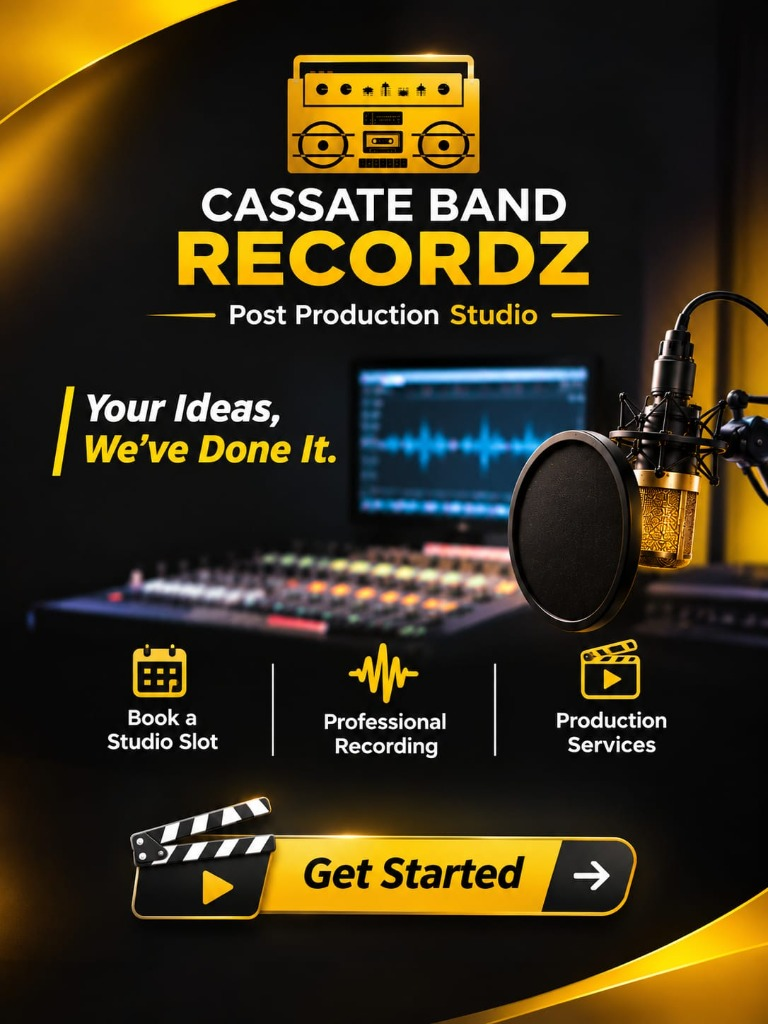
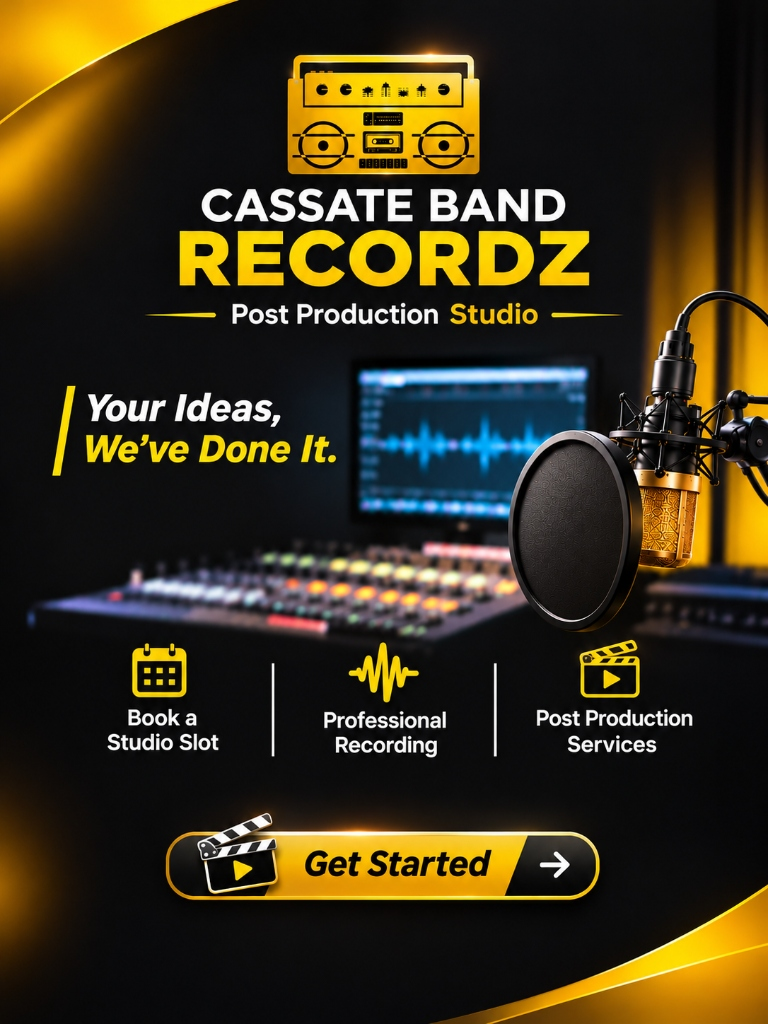
feat: interactive clip box slider on get started screen with smooth swipe to unlock

diff --git a/app/index.tsx b/app/index.tsx
@@ -13,9 +13,12 @@ import {
 } from 'react-native';
 import { useRouter } from 'expo-router';
 import { StatusBar } from 'expo-status-bar';
+import { Ionicons } from '@expo/vector-icons';
+import { useSafeAreaInsets } from 'react-native-safe-area-context';
 
 export default function InitialEntranceScreen() {
   const router = useRouter();
+  const insets = useSafeAreaInsets();
   const { width, height } = useWindowDimensions();
 
   // Phase 1: 'loading', Phase 2: 'poster'
@@ -30,8 +33,16 @@ export default function InitialEntranceScreen() {
   const posterFadeAnim = useRef(new Animated.Value(0)).current;
   const posterScaleAnim = useRef(new Animated.Value(1.03)).current;
 
-  // Subtle tap feedback animation for the poster CTA
-  const tapScaleAnim = useRef(new Animated.Value(1)).current;
+  // Slider animation values
+  const swipePan = useRef(new Animated.Value(0)).current;
+  const [trackWidth, setTrackWidth] = useState<number>(Math.min(350, width - 40));
+  const isEnteringRef = useRef(false);
+
+  // Chevron pulse animation inside slider
+  const chevronPulseAnim = useRef(new Animated.Value(0.4)).current;
+
+  const thumbWidth = 62;
+  const maxDrag = Math.max(80, trackWidth - thumbWidth - 8);
 
   useEffect(() => {
     // 1. Loading pulse animation
@@ -43,6 +54,15 @@ export default function InitialEntranceScreen() {
     );
     pulseLoop.start();
 
+    // Chevron breathing animation
+    const chevronLoop = Animated.loop(
+      Animated.sequence([
+        Animated.timing(chevronPulseAnim, { toValue: 1, duration: 700, useNativeDriver: true }),
+        Animated.timing(chevronPulseAnim, { toValue: 0.3, duration: 700, useNativeDriver: true }),
+      ])
+    );
+    chevronLoop.start();
+
     // Subtle scale in of loading brand card
     Animated.spring(loadingScaleAnim, {
       toValue: 1,
@@ -51,7 +71,7 @@ export default function InitialEntranceScreen() {
       useNativeDriver: true,
     }).start();
 
-    // 2. Smooth "swap style" transition from loading animation to Get Started poster (~1.2s)
+    // 2. Smooth "swap style" transition from loading animation to Get Started poster (~1.25s)
     const swapTimer = setTimeout(() => {
       Animated.timing(loadingFadeAnim, {
         toValue: 0,
@@ -77,48 +97,75 @@ export default function InitialEntranceScreen() {
     return () => {
       clearTimeout(swapTimer);
       pulseLoop.stop();
+      chevronLoop.stop();
     };
   }, []);
 
   const handleEnterHome = () => {
-    Animated.sequence([
-      Animated.timing(tapScaleAnim, {
-        toValue: 0.98,
-        duration: 70,
-        useNativeDriver: true,
-      }),
+    if (isEnteringRef.current) return;
+    isEnteringRef.current = true;
+
+    // Animate thumb smoothly to the end if not already there
+    Animated.timing(swipePan, {
+      toValue: maxDrag,
+      duration: 160,
+      useNativeDriver: true,
+    }).start(() => {
+      // Fade out and route to Home
       Animated.timing(posterFadeAnim, {
         toValue: 0,
         duration: 200,
         useNativeDriver: true,
-      }),
-    ]).start(() => {
-      router.replace('/(tabs)');
+      }).start(() => {
+        router.replace('/(tabs)');
+      });
     });
   };
 
-  // Swipe gesture responder: Allows swiping right or up to Get Started ("swap/swipe style")
+  // PanResponder to make the Clip Box work as an interactive slider
   const panResponder = useRef(
     PanResponder.create({
       onStartShouldSetPanResponder: () => true,
-      onMoveShouldSetPanResponder: (_, gestureState) => {
-        // Detect horizontal swipe right OR vertical swipe up
-        return gestureState.dx > 20 || gestureState.dy < -20;
+      onMoveShouldSetPanResponder: (_, gestureState) => Math.abs(gestureState.dx) > 4,
+      onPanResponderGrant: () => {
+        // User touched clip box
+      },
+      onPanResponderMove: (_, gestureState) => {
+        if (isEnteringRef.current) return;
+        const newX = Math.min(maxDrag, Math.max(0, gestureState.dx));
+        swipePan.setValue(newX);
       },
       onPanResponderRelease: (_, gestureState) => {
-        // If swiped right by > 40px or swiped up by > 40px, or a clean tap
-        if (gestureState.dx > 40 || gestureState.dy < -40 || (Math.abs(gestureState.dx) < 10 && Math.abs(gestureState.dy) < 10)) {
+        if (isEnteringRef.current) return;
+
+        // If dragged more than 45% of the track OR fast flick to the right -> complete slide & enter!
+        if (gestureState.dx > maxDrag * 0.45 || gestureState.vx > 0.8) {
           handleEnterHome();
+        } else {
+          // Spring back smoothly to start
+          Animated.spring(swipePan, {
+            toValue: 0,
+            friction: 6,
+            tension: 80,
+            useNativeDriver: true,
+          }).start();
         }
       },
     })
   ).current;
 
+  // Text opacity interpolation: Fades out as clip box slides over it
+  const textOpacity = swipePan.interpolate({
+    inputRange: [0, maxDrag * 0.6],
+    outputRange: [1, 0],
+    extrapolate: 'clamp',
+  });
+
   return (
     <View style={styles.container}>
       <StatusBar style={phase === 'loading' ? 'dark' : 'light'} />
 
-      {/* ── PHASE 1: ANIMATED LOADING SCREEN ── */}
+      {/* ── PHASE 1: ANIMATED BRAND LOADING SCREEN ── */}
       {phase === 'loading' && (
         <Animated.View
           style={[
@@ -147,35 +194,69 @@ export default function InitialEntranceScreen() {
         </Animated.View>
       )}
 
-      {/* ── PHASE 2: SWAP STYLE GET STARTED POSTER (100% CLEAN & BORDERLESS) ── */}
+      {/* ── PHASE 2: SWAP STYLE GET STARTED SCREEN WITH WORKING CLIP BOX SLIDER ── */}
       {phase === 'poster' && (
         <Animated.View
           style={[
             styles.posterContainer,
             {
               opacity: posterFadeAnim,
-              transform: [{ scale: posterScaleAnim }, { scale: tapScaleAnim }],
+              transform: [{ scale: posterScaleAnim }],
             },
           ]}
-          {...panResponder.panHandlers}
         >
-          {/* Full-bleed edge-to-edge poster with ZERO artificial buttons on top */}
+          {/* Full-bleed edge-to-edge backdrop with zero borders */}
           <ImageBackground
-            source={require('../assets/images/get_started_poster.jpg')}
+            source={require('../assets/images/get_started_backdrop.jpg')}
             style={styles.posterBg}
             resizeMode="cover"
           >
-            {/* Full-screen touch surface: Tapping anywhere on the banner (or on the Get Started button) navigates into app */}
-            <TouchableOpacity
-              style={styles.fullScreenTouch}
-              onPress={handleEnterHome}
-              activeOpacity={0.97}
-              accessibilityRole="button"
-              accessibilityLabel="Get Started - Cassate Band Recordz"
+            {/* ── WORKING CLIP BOX SLIDER BUTTON ── */}
+            <View
+              style={[
+                styles.sliderWrapper,
+                { paddingBottom: Math.max(insets.bottom, 24) + 16 },
+              ]}
+              onLayout={(e) => {
+                const w = e.nativeEvent.layout.width;
+                if (w > 0) setTrackWidth(w);
+              }}
             >
-              {/* Invisible interactive hotspot aligned over the artwork's Get Started button */}
-              <View style={styles.buttonHotspot} />
-            </TouchableOpacity>
+              <TouchableOpacity
+                style={styles.sliderTrack}
+                onPress={handleEnterHome}
+                activeOpacity={0.95}
+              >
+                {/* Background Text & Chevrons */}
+                <Animated.View style={[styles.trackContentRow, { opacity: textOpacity }]}>
+                  <Text style={styles.trackText}>Get Started</Text>
+                  <Animated.View style={{ opacity: chevronPulseAnim, flexDirection: 'row', alignItems: 'center' }}>
+                    <Ionicons name="chevron-forward" size={16} color="#FACC15" />
+                    <Ionicons name="chevron-forward" size={16} color="#CA8A04" style={{ marginLeft: -8 }} />
+                  </Animated.View>
+                </Animated.View>
+
+                {/* Right Arrow End Badge */}
+                <View style={styles.arrowEndBadge}>
+                  <Ionicons name="arrow-forward" size={18} color="#FFFFFF" />
+                </View>
+
+                {/* ── DRAGGABLE CLIP BOX (SLIDER THUMB) ── */}
+                <Animated.View
+                  style={[
+                    styles.clipBoxThumb,
+                    { transform: [{ translateX: swipePan }] },
+                  ]}
+                  {...panResponder.panHandlers}
+                >
+                  <Image
+                    source={require('../assets/images/clip_box_thumb.png')}
+                    style={styles.clipThumbImage}
+                    resizeMode="contain"
+                  />
+                </Animated.View>
+              </TouchableOpacity>
+            </View>
           </ImageBackground>
         </Animated.View>
       )}
@@ -247,7 +328,7 @@ const styles = StyleSheet.create({
     marginTop: 8,
   },
 
-  // ── Phase 2: Borderless Poster Styles ──
+  // ── Phase 2: Poster & Working Clip Box Slider Styles ──
   posterContainer: {
     ...StyleSheet.absoluteFillObject,
     backgroundColor: '#000000',
@@ -262,19 +343,74 @@ const styles = StyleSheet.create({
     justifyContent: 'flex-end',
     alignItems: 'center',
   },
-  fullScreenTouch: {
-    flex: 1,
-    width: '100%',
-    height: '100%',
-    justifyContent: 'flex-end',
-    alignItems: 'center',
-  },
-  // Hotspot over the artwork's Get Started button
-  buttonHotspot: {
-    width: '85%',
+  sliderWrapper: {
+    width: '88%',
     maxWidth: 360,
-    height: 65,
-    marginBottom: Platform.OS === 'android' ? 36 : 28,
-    backgroundColor: 'transparent', // 100% transparent: leaves the poster artwork clean & pristine
+    alignItems: 'center',
+    justifyContent: 'center',
+  },
+  sliderTrack: {
+    width: '100%',
+    height: 60,
+    borderRadius: 30,
+    backgroundColor: 'rgba(12, 12, 16, 0.94)',
+    borderWidth: 2,
+    borderColor: '#FACC15',
+    flexDirection: 'row',
+    alignItems: 'center',
+    paddingHorizontal: 4,
+    position: 'relative',
+    shadowColor: '#FACC15',
+    shadowOffset: { width: 0, height: 0 },
+    shadowOpacity: 0.65,
+    shadowRadius: 10,
+    elevation: 8,
+    overflow: 'hidden',
+  },
+  trackContentRow: {
+    position: 'absolute',
+    left: 0,
+    right: 48,
+    flexDirection: 'row',
+    alignItems: 'center',
+    justifyContent: 'center',
+    gap: 6,
+    paddingLeft: 36,
+  },
+  trackText: {
+    color: '#FACC15',
+    fontSize: 16,
+    fontStyle: 'italic',
+    fontWeight: '900',
+    letterSpacing: 0.6,
+  },
+  arrowEndBadge: {
+    position: 'absolute',
+    right: 6,
+    width: 44,
+    height: 44,
+    borderRadius: 22,
+    backgroundColor: '#1E1E24',
+    borderWidth: 1.2,
+    borderColor: 'rgba(250, 204, 21, 0.35)',
+    alignItems: 'center',
+    justifyContent: 'center',
+  },
+  clipBoxThumb: {
+    width: 62,
+    height: 52,
+    borderRadius: 12,
+    alignItems: 'center',
+    justifyContent: 'center',
+    zIndex: 20,
+    elevation: 10,
+    shadowColor: '#000000',
+    shadowOffset: { width: 2, height: 2 },
+    shadowOpacity: 0.5,
+    shadowRadius: 4,
+  },
+  clipThumbImage: {
+    width: 60,
+    height: 50,
   },
 });
